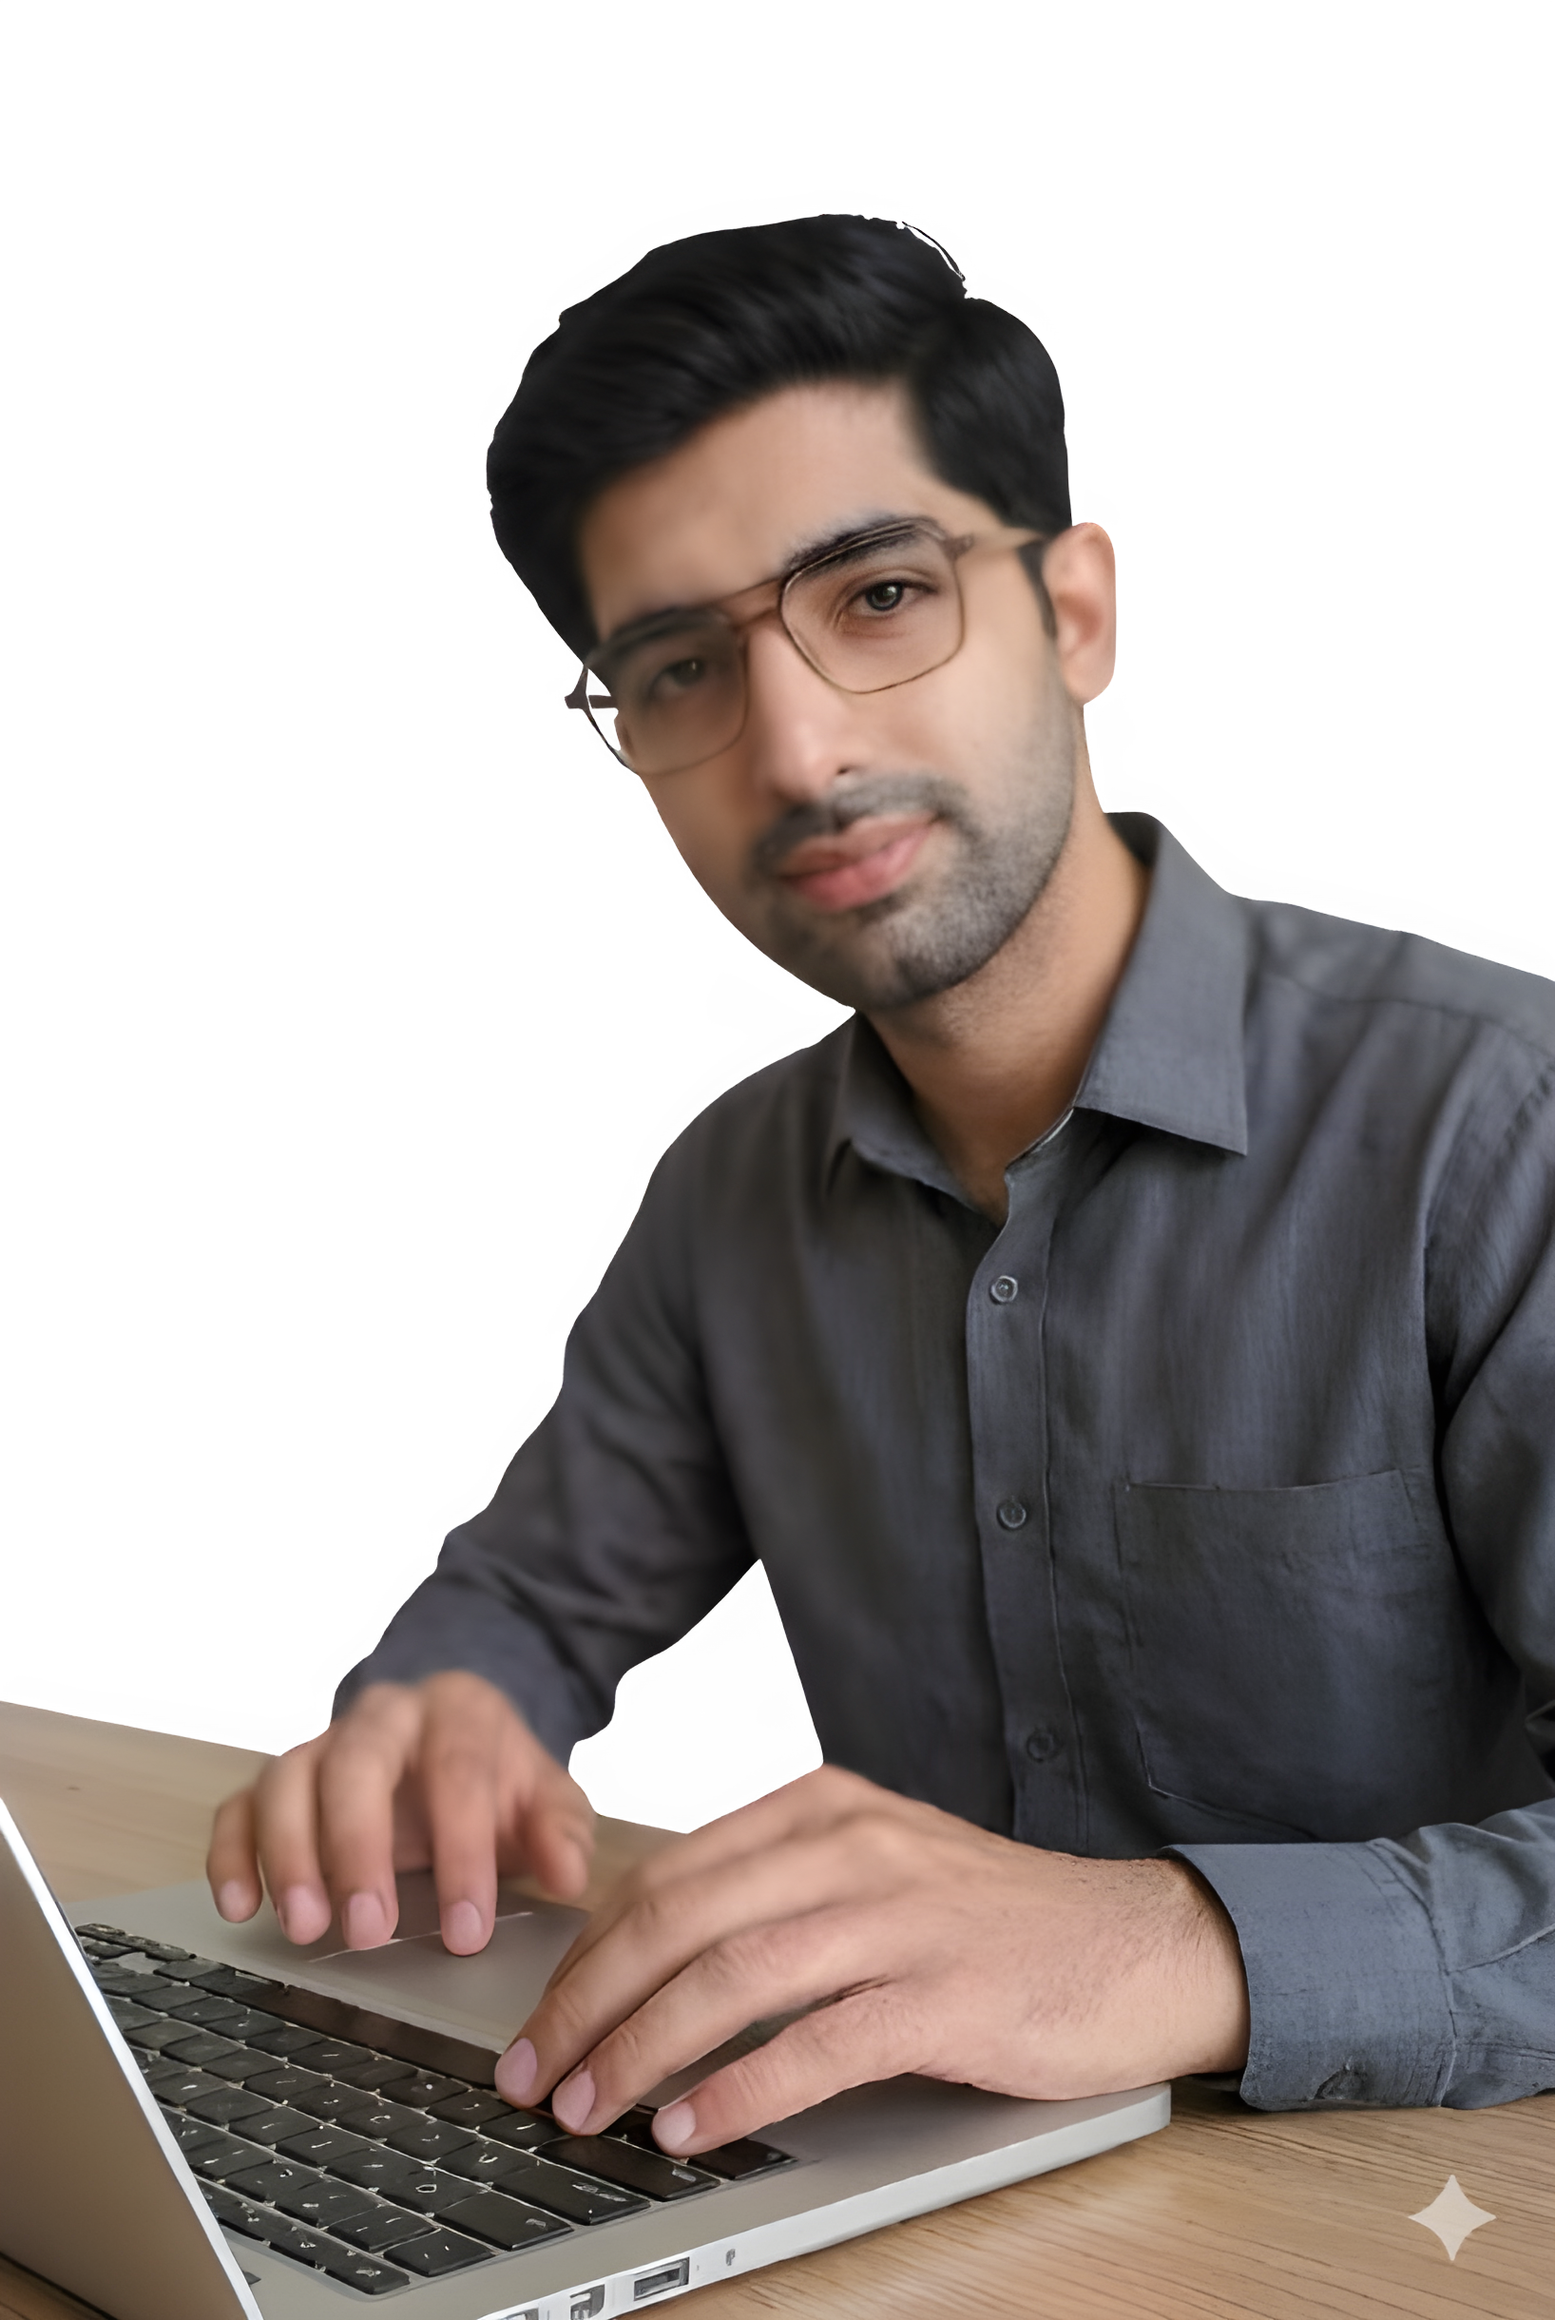
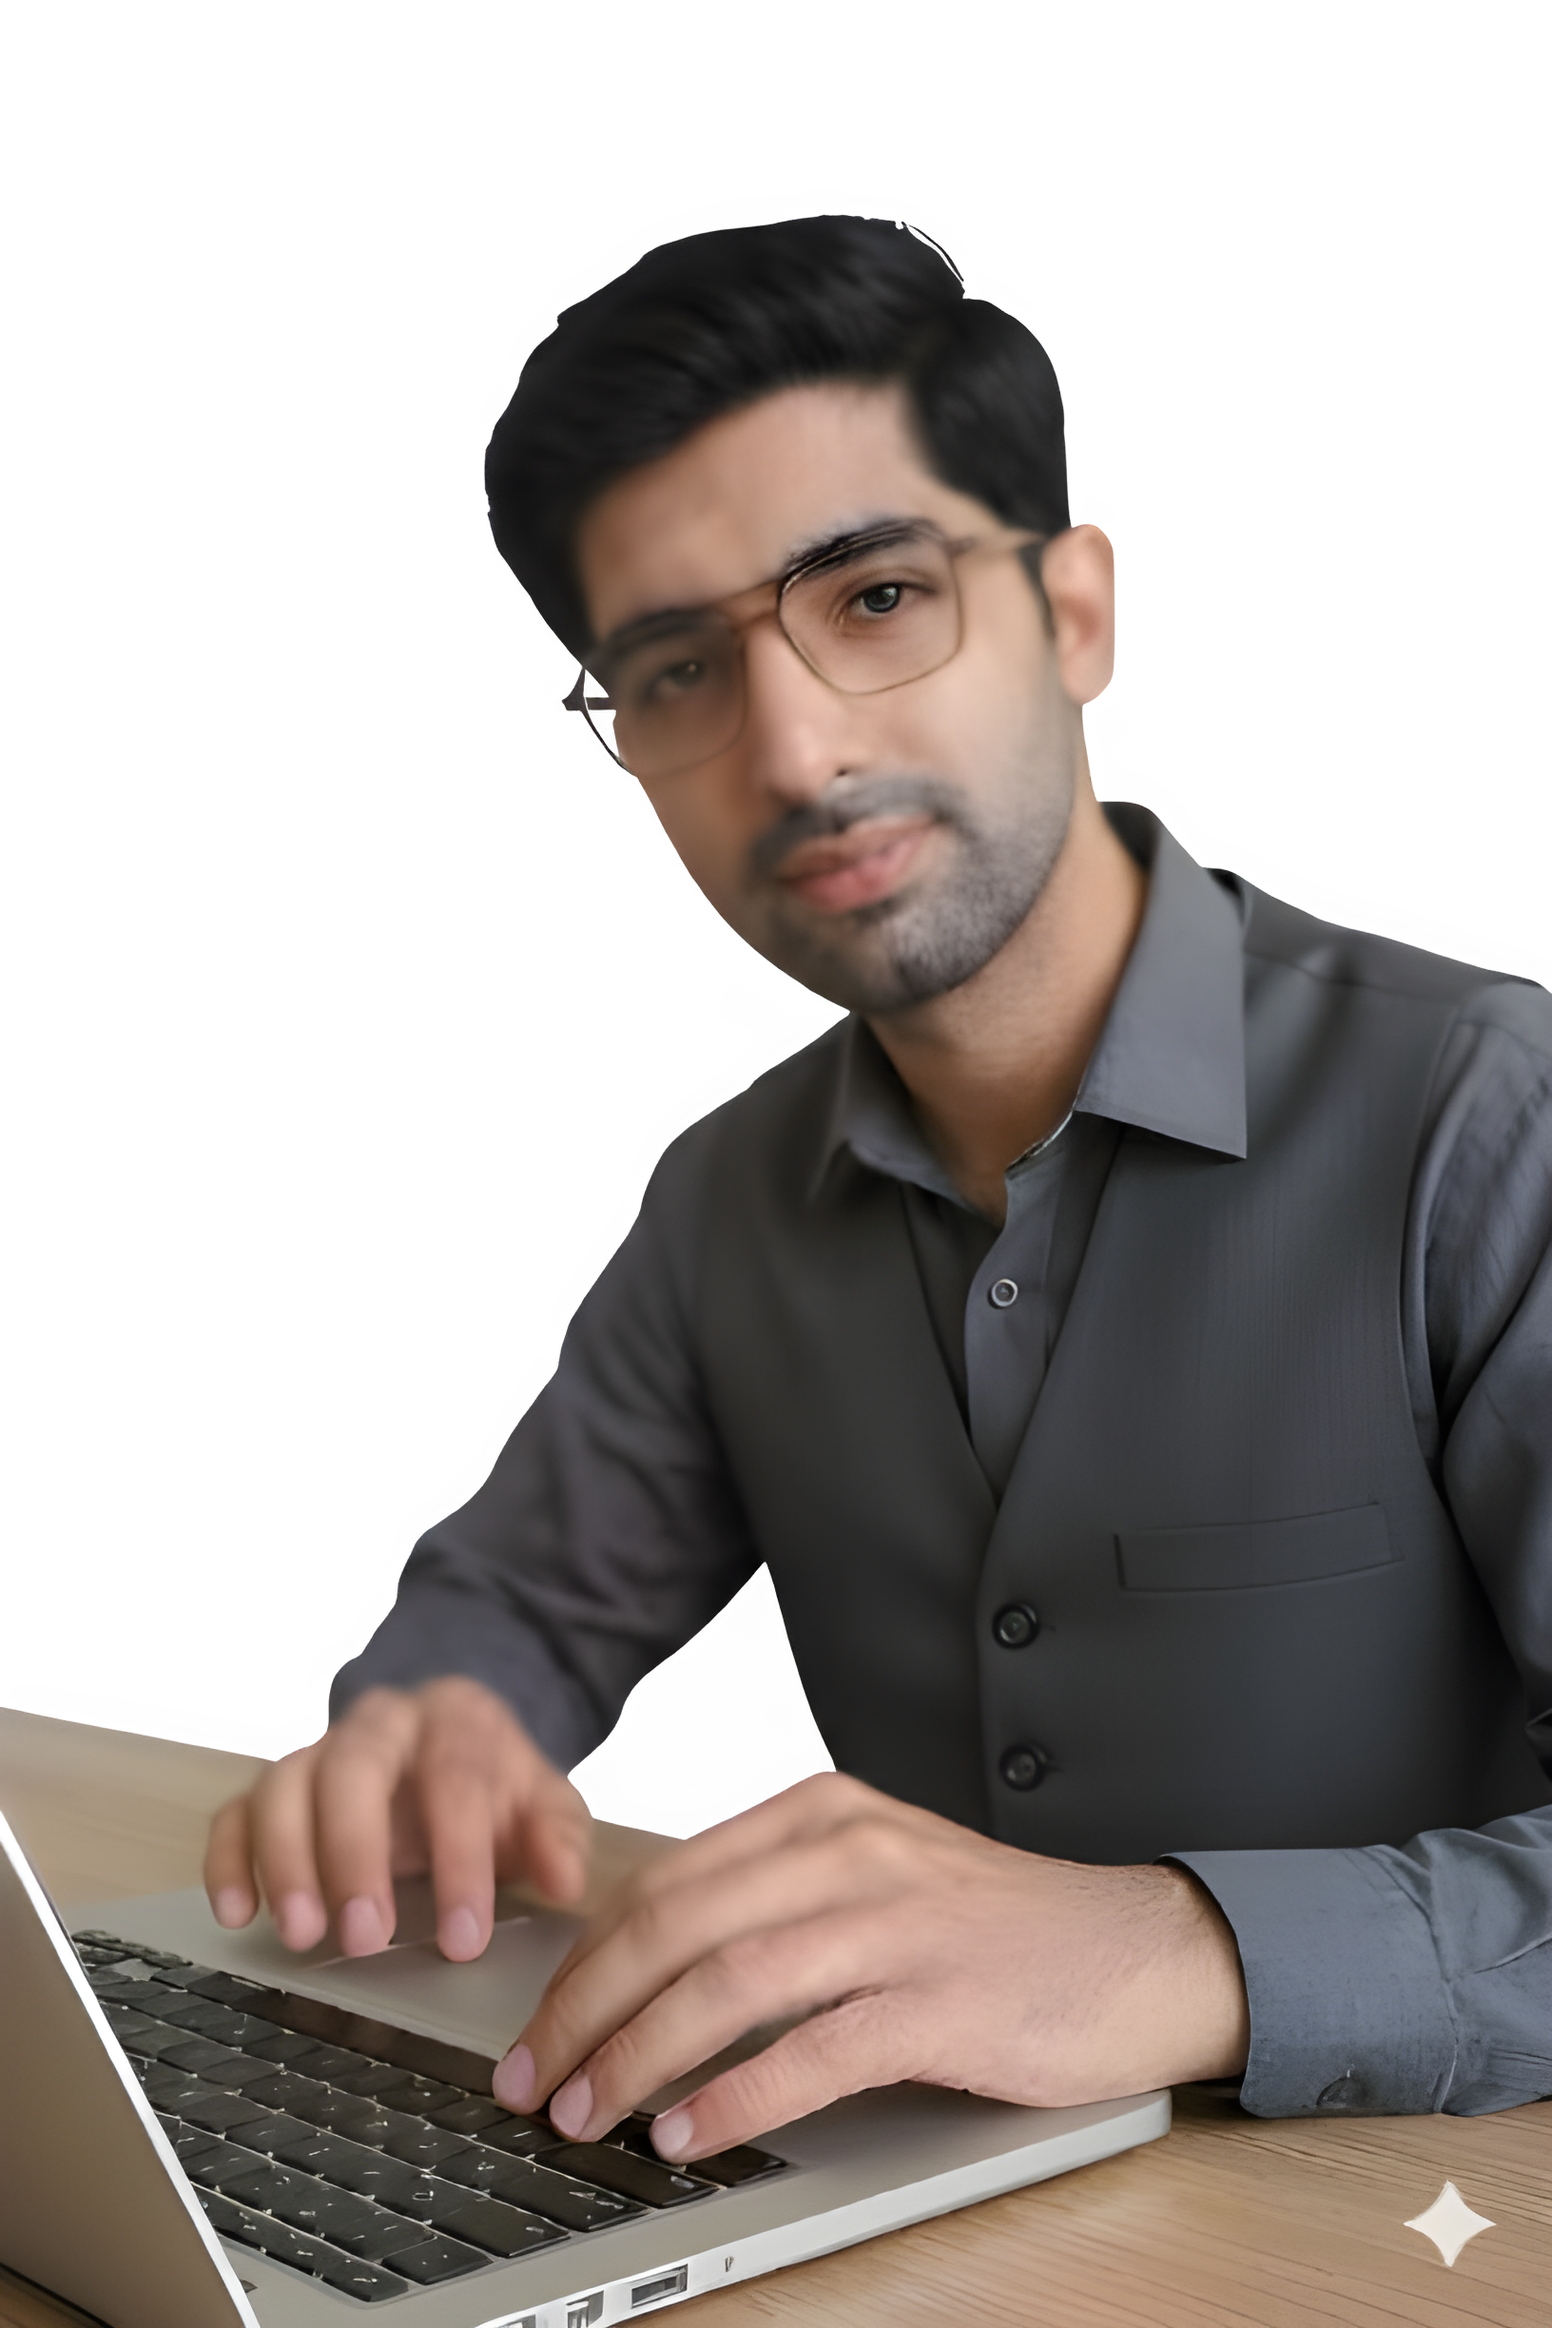
upadated hero and stats images

diff --git a/src/components/home/StatsSection.tsx b/src/components/home/StatsSection.tsx
@@ -79,7 +79,7 @@ export default function StatsSection() {
               {/* Main Visual */}
               <div className="relative w-full aspect-square rounded-3xl overflow-hidden bg-gradient-to-br from-primary/20 to-lavender/30 shadow-float">
                 <Image
-                  src="/images/stats-image.png" // User will update this manually
+                  src="/images/stats-bg-2.png" // User will update this manually
                   alt="Stats Image"
                   fill
                   className="object-contain object-bottom"
